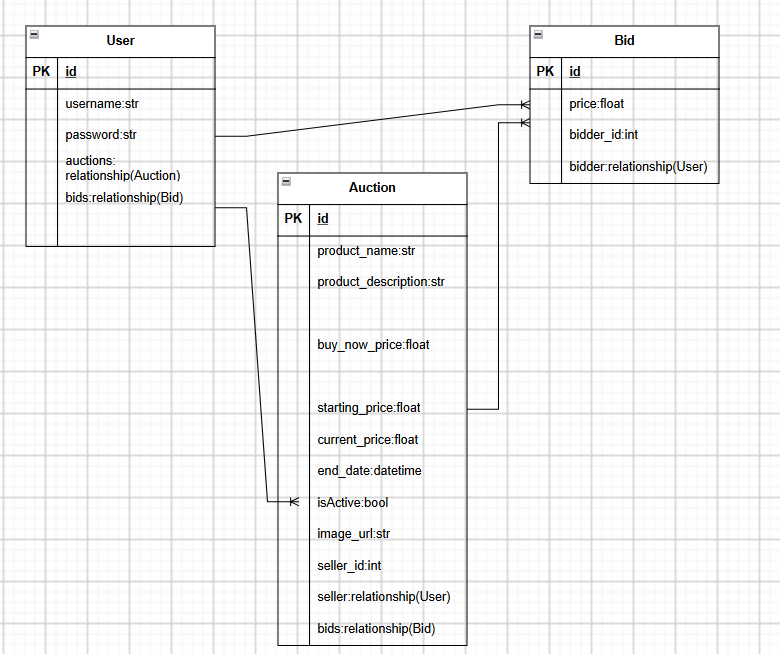
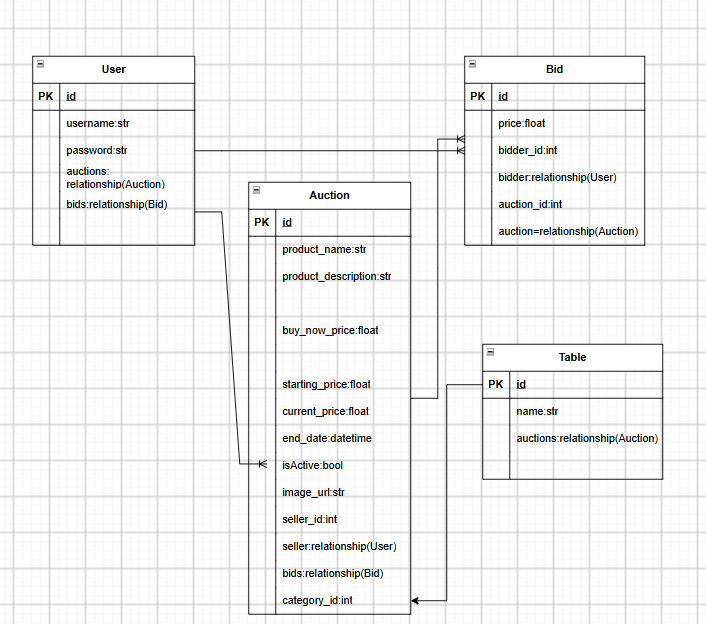
feat: update README with new sections and images; add new assets for auction platform

diff --git a/README.md b/README.md
@@ -1,9 +1,12 @@
 # BidUp - Live Auctions
-
+## Overview
 ### A platform that allows users to put up an auction for a product and allows other users to bid for the duration of the auction.
 
-  
-
+## Screenshot/Logo
+![Bidup Logo](assets/BidupLogo.png)
+![Bidup Landing](assets/Landing.png)
+![Bidup Dashboard](assets/DashboardSS.png)
+![Bidup Auction](assets/AuctionsSS.png)
 ## User Stories
 
 * As a User, i want to be able to put up a product of mine for auction
@@ -15,6 +18,12 @@
 * As a User, i want to be able to view a list of auctions that are currently active
 
 * As a User, i want to be able to view a list of won bids
+
+## Getting Started
+
+* [Deployed App](https://bid-up-frontend.vercel.app)
+* [Frontend Repository](https://github.com/Mohammed-M8/BidUp-Frontend) 
+* [Backend Repository](https://github.com/Mohammed-M8/BidUp-Backend) 
 
 ## Wireframes
 ### Auctions
@@ -41,7 +50,29 @@
 | **Bids** | | |
 | GET | `/auctions/:auction_id/bids` | Get bids for an auction |
 | GET | `/bids/:bid_id` | Get bid |
+| PATCH | `/bids/:bid_id/accept` | Accept bid |
+| DELETE | `/bids/:bid_id` | Delete a bid |
 | GET | `/auctions/:auction_id/winner` | Get winning bid |
 | POST | `/auctions/:auction_id/bids` | Create a new bid |
-| DELETE | `/bids/:bid_id` | Delete a bid |
 | GET | `/users/:user_id/bids` | Get bids of a user |
+
+## Attributions
+* Component Library [Shadcn/ui](https://ui.shadcn.com/)
+* Toast Notifications [React-toastify](https://fkhadra.github.io/react-toastify/introduction/)
+
+## Technologies Used
+
+### Backend
+**FastAPI, Cloudinary , Neon PostgreSQL, Postman, Swagger**
+### Frontend
+**React.js**
+### Common
+**Github , Postman**
+## Next Steps
+* Add Email on Bid Acceptance 
+* Add Direct Messaging
+* Add Payment Options
+* Add In-App Notifications
+
+
+
